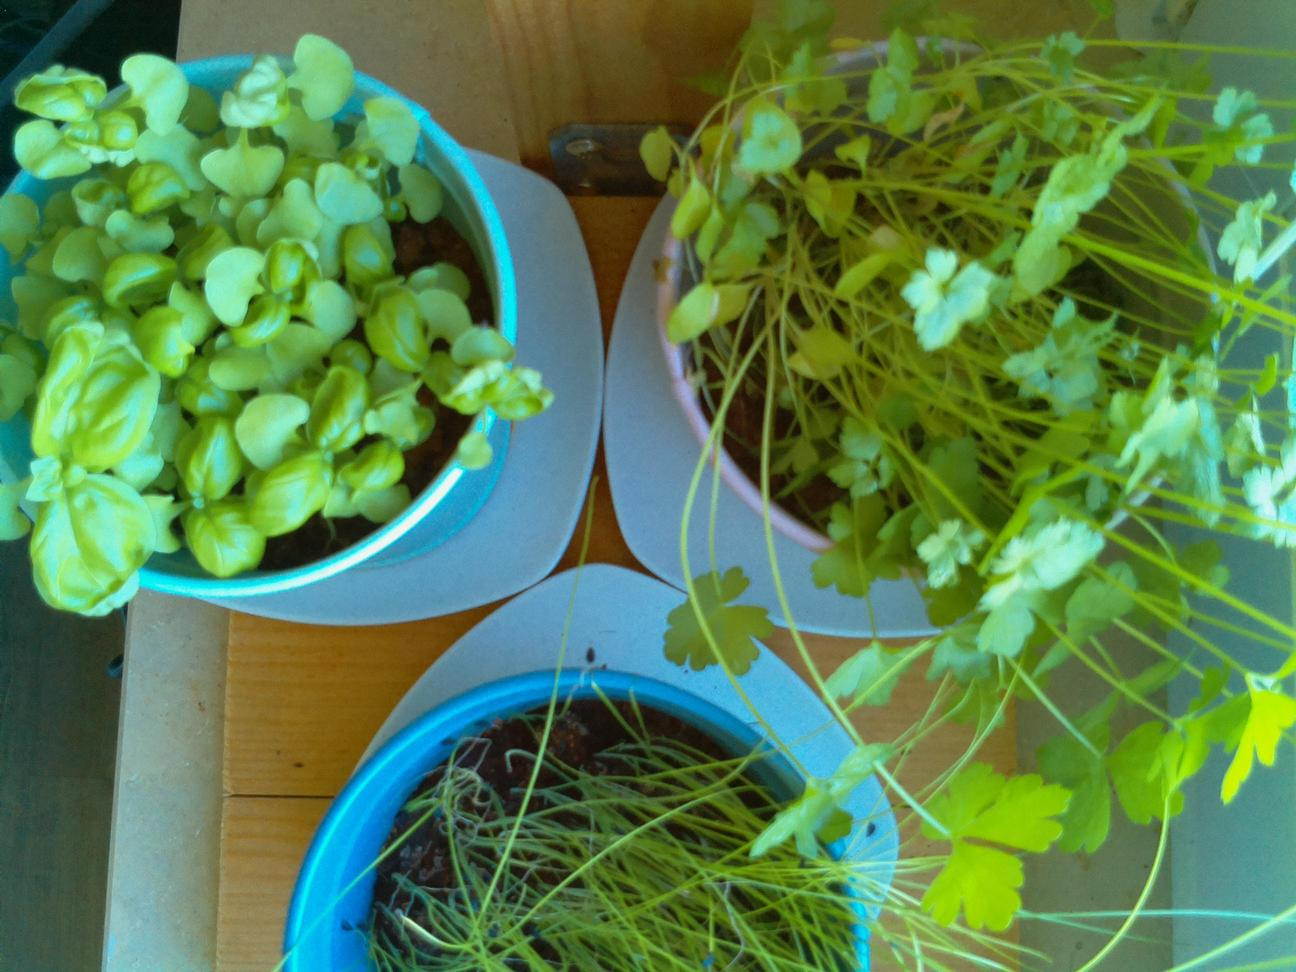
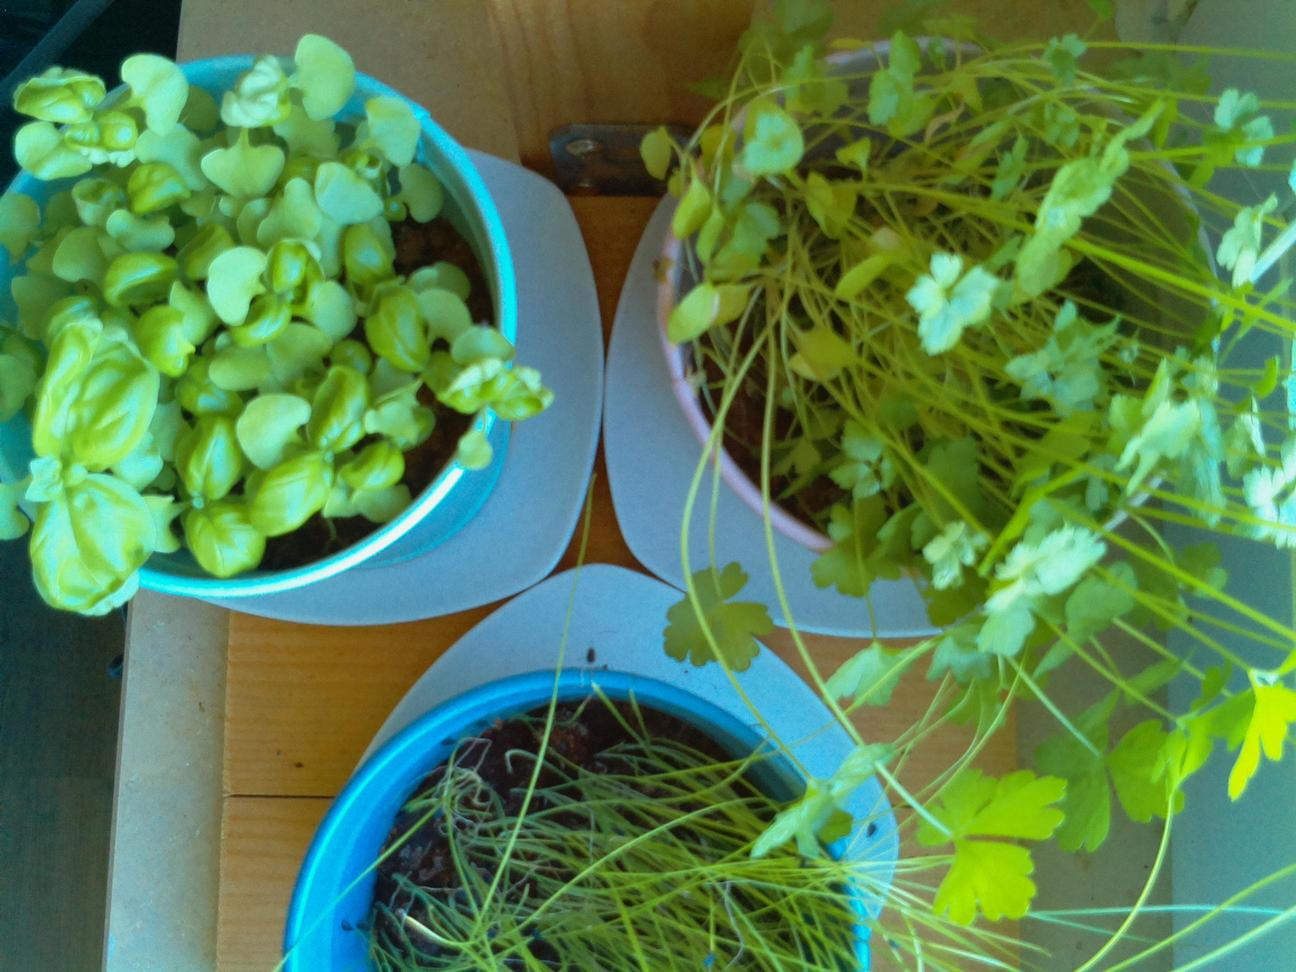
Update images at Mon 14 Jun 12:42:11 BST 2021

diff --git a/docs/index.html b/docs/index.html
@@ -28,7 +28,7 @@
 
                 <h5>Latest image</h5>
 		<div style="width: 85%;">
-	                <img class="figure-img img-fluid rounded" src="./preview.jpg?uid=1623667311.3864686">
+	                <img class="figure-img img-fluid rounded" src="./preview.jpg?uid=1623670930.6206658">
 		</div>
             </div>
         </div>
